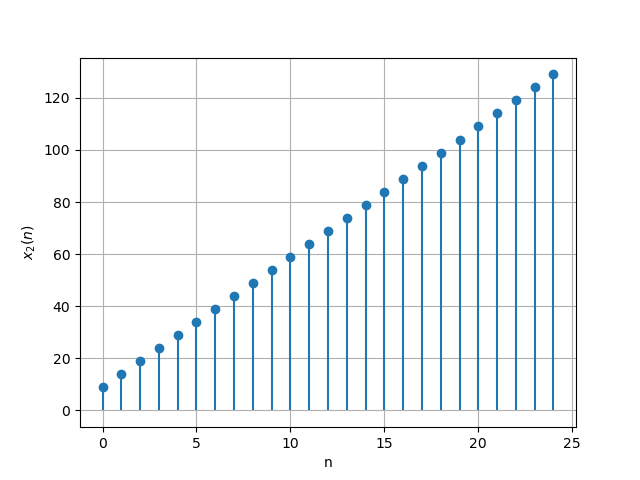
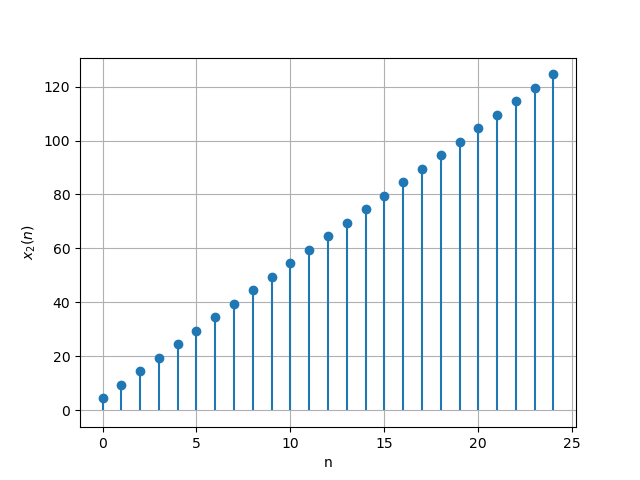
Add files via upload

diff --git a/ap.tex b/ap.tex
@@ -123,8 +123,7 @@ The sum of the first $n$ terms of two arithmetic progressions (AP) is in the rat
 \solution:
 
 \begin{table}[htbp]
-    \centering
-    \caption{Input Parameters}
+	\centering
     \begin{tabular}{|c|c|c|}
     \hline
     \textbf{Parameter} &\textbf{value}& \textbf{Description} \\
@@ -166,19 +165,18 @@ Taking Z-Transform:
     nu(n) &\xleftrightarrow{\mathcal{Z}}  \frac{z^{-1}}{(1-z^{-1})^2}\, \{\abs{z} > 1\} \label{eq 10.5.2.11_8} 
 \end{align}
 \begin{align}
-    X_1(z) &=\frac{9}{1-z^{-1}} + \frac{ 5z^{-1}}{(1-z^{-1})^2}\\
-     X_2(z)&= \frac{15}{1-z^{-1}} + \frac{9z^{-1}}{(1-z^{-1})^2}
+    x_1(z) &=\frac{9/2}{1-z^{-1}} + \frac{ 5z^{-1}}{(1-z^{-1})^2}\\
+     x_2(z)&= \frac{15/2}{1-z^{-1}} + \frac{9z^{-1}}{(1-z^{-1})^2}
 \end{align}
 \end{enumerate}
 \begin{align}
-x_1(n)&= \lbrace 9,14,19,...\rbrace 
+x_1(n)&= \lbrace 9/2,19/2,29/2,...\rbrace 
 \end{align}
 \begin{align}
-x_2(n)&= \lbrace 15,24,33 ,...\rbrace 
+x_2(n)&= \lbrace 15/2,33/2,51/2,...\rbrace 
 \end{align}
 \begin{align}
-\frac{x_1(18)}{x_2(18)}&=\frac{94}{168}\\
-&=\frac{47}{84}
+\frac{x_1(18)}{x_2(18)}=\frac{179}{321}
 \end{align}
 \begin{figure}[h!]
 	\centering

diff --git a/codes/fig1.py b/codes/fig1.py
@@ -1,5 +1,5 @@
 import matplotlib.pyplot as plt
-a = 9  # First term
+a = 4.5  # First term
 d = 5  # Common difference
 n = 25
 ap_series = [a + i * d for i in range(n)]

diff --git a/codes/fig2.py b/codes/fig2.py
@@ -1,5 +1,5 @@
 import matplotlib.pyplot as plt
-a = 15  # First term
+a = 7.5  # First term
 d = 9 # Common difference
 n = 25
 ap_series = [a + i * d for i in range(n)]
